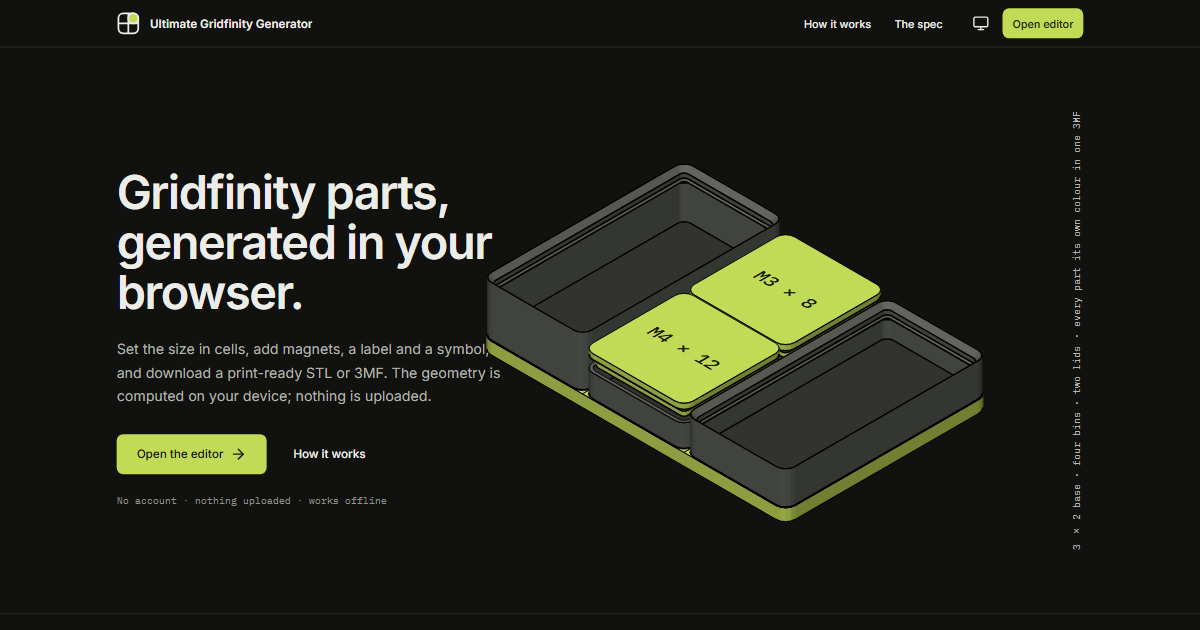
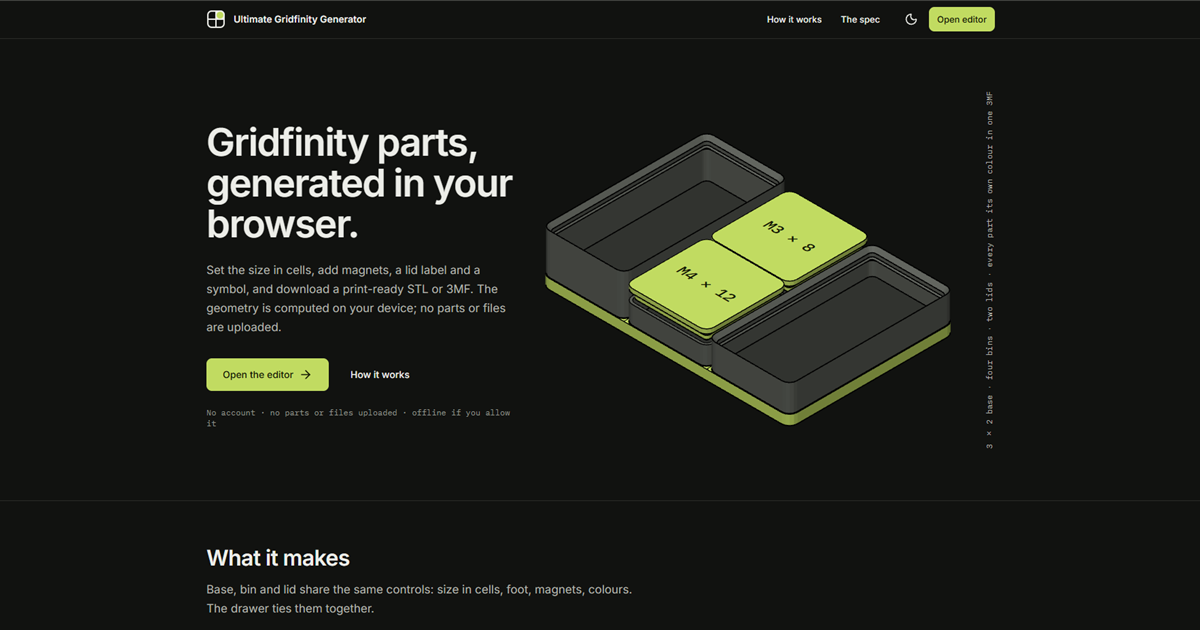
Update the preview image and the roadmap: sitemap submitted, drawer planner moved to another app

diff --git a/docs/roadmap.md b/docs/roadmap.md
@@ -31,10 +31,10 @@ Postponed (spec section 2): the desktop app with Tauri or Electron, to phase F. 
 Done on 8 November 2026: the web app is deployed at ultimategridfinity.app and verified in Google Search Console (HTML tag); landing page with hero animation, privacy statement and imprint in German and English as static pages, consent dialog for saving in the browser, no cookies, no server logs (nginx `access_log off;` and `error_log /dev/null crit;` in Coolify, no access log in the proxy; the container logs were checked and stayed empty after visits and a 404), Ko-fi link removed. Details are in the two sections "SEO" and "Privacy statement and imprint" below.
 
 Next, in this order (owner decides; Phase E only when the owner says so):
-1. **For the owner:** submit `https://ultimategridfinity.app/sitemap.xml` in Google Search Console and Bing Webmaster Tools; look at the link preview in Discord or Slack; ask the Kanzlei for an English version and whether the changed privacy statement (2.1, sections 3 and 5) is in order.
-2. **Small tasks:** a new `og-image.png` (it still shows the old wording); the phone layout with group tabs and a check on a real device, then close issue 7; the About modal (the owner decides what it holds).
+1. **For the owner:** ask the Kanzlei for an English version and whether the changed privacy statement (2.1, sections 3 and 5) is in order (still open). Done on 11 November 2026: the sitemap is submitted in Google Search Console and Bing Webmaster Tools; the new `og-image.png` is in `public/`.
+2. **Small tasks:** the phone layout with group tabs and a check on a real device, then close issue 7; the About modal (the owner decides what it holds).
 3. **Phase C:** the sliding lid, the only part not built.
-4. **Phase E**, in the recommended order: E-10 custom print bed, E-06 colour by height, E-07 to E-09 bin compartments, scoop and label tab (dimensions missing), E-04 and E-11 snap connectors (stud height and hole depth missing), E-01 to E-03 drawer planner (design first), E-05 text on bin walls.
+4. **Phase E**, in the recommended order: E-06 colour by height, E-04 and E-11 snap connectors (stud height and hole depth missing), E-05 text on bin walls. Built: E-07 to E-09 and E-10. The drawer planner (E-01 to E-03) is not part of this app any more: it goes into another app (owner, 11 November 2026).
 5. **Far future:** phases D, F, G and H.
 
 ### Preview of the print bed and start part (owner, 11 November 2026)
@@ -59,7 +59,7 @@ Next, in this order (owner decides; Phase E only when the owner says so):
 - My 2D checks (plates touching or 0 to 6 mm apart, connector upright or turned, slot at the bottom or at the top, any height): with the slot of the STEP file alone the connector never sits without overlapping plate material; as a cap on the ridge it stops at 3.5 mm above the underside. Flipping both the slot and the connector (roof down into a groove at the top) fills about 70 % of the groove with 0.02 mm2 overlap, but the owner rejected the flipped groove.
 - Open questions to ask the owner before the next try: where exactly the plate material is cut (a section of ONE plate with the final cuts), how the connector gets in (from below through the slot, from above, from the side), and the clearance in width.
 
-**Other open items:** Orca applies the plates of a 3MF only with project settings (the user arranges in Orca); slot length 20.0 (STEP) against 19.6 (owner's words); the label assumptions (lug thickness = plate, chamfer 0.3, lug offset 4.33 measured, text sink 0.4, raised by default); the owner-side items listed below (Search Console, og-image, Kanzlei).
+**Other open items:** Orca applies the plates of a 3MF only with project settings (the user arranges in Orca); slot length 20.0 (STEP) against 19.6 (owner's words); the label assumptions (lug thickness = plate, chamfer 0.3, lug offset 4.33 measured, text sink 0.4, raised by default); the owner-side items listed below (Kanzlei; Search Console, Bing and og-image are done).
 
 **Method notes:** STEP and PDF were parsed with small Python scripts in the scratchpad (`step_parse.py`: entities, reachable vertices, face loops; the PDF content stream is one Flate stream with `m`/`l` lines in layers `oc1` to `oc3`, the cyan layer is the connector); `rhino3dm` was installed with `pip --target` into the scratchpad only (not a dependency of the project). The Bambu and Orca 3MF files were unpacked and compared the same way; `project_settings.config` of the two slicers differ in 302 and 158 keys.
 
@@ -148,9 +148,7 @@ Bins and baseplates in the standard, sliding lid, filler for free space. Bin sco
 
 Planned features. **Do not start them before the owner has deployed and published the app and says so.** One feature at a time, as in phase C; the owner tests each one. Open points are in "Open decisions" 10 to 15; values that depend on test prints (E-04) are the owner's, do not invent them.
 
-- [ ] **E-01 Drawer planner: layout model.** For a baseplate (with the drawer size and height from C-09 to C-13) the user plans which bins and lids sit on which cells: placement on the cell grid, size per bin in cells, no overlaps, height limited by the drawer height. The plan is part of the model file (schema version bump and migration, ADR-0003). Depends on: C-13. *AC:* a plan with bins and lids on a 4x3 baseplate saves, loads and rejects overlaps and parts that do not fit.
-- [ ] **E-02 Drawer planner: interface.** Plan view of the plate with the parts on it, add, move and remove a bin or lid, each part uses the parameters of the existing bin and lid panels, list of the planned parts. Design first (`docs/design/ui-spec.md`, mockups by Claude Design). Depends on: E-01. *AC:* the owner can plan a whole drawer without leaving the planner; minimum values and limits as everywhere (spec rule).
-- [ ] **E-03 Drawer planner: export.** One 3MF with all planned parts (each part keeps its colours and separate meshes, ADR-0008) or all STLs in one ZIP, one file per part. Depends on: E-01. *AC:* the 3MF opens in a slicer with every part present; the ZIP holds one STL per part and a readable file name per part. How the parts are arranged in the 3MF (as planned in the drawer or laid out on the bed) is open decision 10.
+- ~~E-01 to E-03 Drawer planner (layout model, interface, export)~~ struck on 11 November 2026: the owner builds the drawer planner in another app, not in this one. The drawer fit of this app (C-09 to C-13) stays.
 - [ ] **E-04 Snap connectors for filled plates.** Lego-style press studs (round nipples) and sockets in the filled (solid) segments of baseplates that are filled or split (C-10, C-12), so the pieces click together. Tested by the owner (4 November 2026): studs of 3, 5 and 8 mm diameter with a 0.5 mm fillet on top; the matching holes are 3.1, 5.1 and 8.1 mm with a 0.6 mm fillet (hole diameter = stud diameter + 0.1 mm). Stud height and hole depth are not decided yet, and the user can set the clearance afterwards (custom). Depends on: C-12. *AC:* two pieces of a split plate join and hold; the size is a choice of 3, 5 or 8 mm; the clearance parameter changes the fit; height, depth and the limits of the clearance come from the owner.
 - [ ] **E-11 Snap studs instead of magnets.** For users without magnets: a stud on the base and a matching hole in the floor of the bin, with the sizes of E-04, in place of the magnet pockets. Depends on: E-04, C-05. *AC:* a bin clicks onto the base; the user chooses between magnets and studs. Position of the studs is decision 12. Owner's idea, 4 November 2026.
 - [ ] **E-05 Text on bin walls.** Text stamped (engraved) into the walls of a bin, with the built-in fonts or an uploaded font file, like the lid label (B-07). Depends on: C-05, B-07. *AC:* closed mesh; the engraving depth always leaves material in the wall (wall 1.2 to 2.5, engraving only up to a value below the wall); text size minimum as for the lid label. Which walls, position, depth default and orientation are open decision 11.
@@ -166,7 +164,7 @@ Planned features. **Do not start them before the owner has deployed and publishe
 - [x] **Prerendered landing page** (option C): the build renders the landing page with Svelte's server renderer into `index.html` (`prerenderLanding` in `vite.config.ts`, no new dependency); the animations and drawings are left out of it and appear in the browser. *AC:* the raw HTML holds the headings and texts (checked in `dist/index.html`).
 - [x] **nginx configuration** (MIME type of the manifest, cache headers, compression, HSTS) is the owner's, kept in Coolify and not in this repository (6 November 2026). Coolify copies it to `/etc/nginx/conf.d/default.conf`, inside nginx's `http` block, so it may hold only `server { ... }`: a `worker_processes`, `events` or `http` block makes nginx fail at start and the site answers 502.
 - [x] **Done by the owner:** the "www redirect" in Coolify (6 November 2026); the property is verified in Google Search Console (8 November 2026, HTML tag).
-- [ ] **For the owner, not code:** submit the sitemap in Google Search Console, and verify the site and submit the sitemap in Bing Webmaster Tools; look at the link preview in Discord or Slack. Not done by choice: JSON-LD, separate pages per part (they need clean paths, option B), hreflang.
+- [x] **Done by the owner (11 November 2026):** the sitemap is submitted in Google Search Console, and the site is verified and the sitemap submitted in Bing Webmaster Tools; the new `og-image.png` (1200 x 630, a screenshot of the current landing page) is in `public/`. Not done by choice: JSON-LD, separate pages per part (they need clean paths, option B), hreflang.
 
 ## Privacy statement and imprint (owner, 8 November 2026)
 
@@ -175,7 +173,7 @@ Planned features. **Do not start them before the owner has deployed and publishe
 - [x] **Wording**: "no parts or files are uploaded", offline on request, "source available"; Support button and Ko-fi link removed.
 - [x] **Privacy statement completed (8 November 2026):** no cookies; local storage and cache only after "Allow" in the dialog (only the decision itself is stored before); no server logs; Google Search Console named (Google Ireland Limited, no code on the site, no data about visitors); sections renumbered 1 to 8, German and English (`datenschutz.html`, `privacy.html`). The theme choice is kept in the browser only after "Allow" as well (`ugg.theme`), so the statement is true.
 - [x] **No server logs, checked (8 November 2026):** `access_log off;` and `error_log /dev/null crit;` in the nginx configuration in Coolify (General tab of the application), no access log in the proxy; `docker logs` of the site container, `coolify-proxy` and `coolify-proxy-error-pages` stayed empty after visits and a request for a missing page. **Keep it that way:** if logging is turned on, or a cookie, analytics or a request to a third party is added, the privacy statement is wrong and must change first.
-- [ ] **For the owner, not code:** ask the Kanzlei for an English version and whether the changed contact data in the privacy statement is fine; take a new `og-image.png` (it still shows the old wording).
+- [ ] **For the owner, not code:** ask the Kanzlei for an English version and whether the changed contact data in the privacy statement is fine (the answer is still to come, 11 November 2026).
 - [x] **Search Console tag** in the `<head>` of `index.html` (8 November 2026, the owner asked for it); it stays there, removing it loses the verification.
 
 ## After the deploy: the About modal (owner, 6 November 2026)
@@ -199,7 +197,7 @@ No tasks yet, and nothing here is started before phases C and E are done and the
 7. ~~The project's own licence~~ Decided (2 November 2026): CC BY-NC-SA 4.0. Open: whether it covers the files the app outputs, contributions by others, and when a `LICENSE` file is added (ask the owner first). See `skills/licences-and-credits/SKILL.md`.
 8. ~~Which spec is the yardstick~~ Decided: the reference drawings in `reference/gridfinity-reference-drawings/` and the official documentation.
 9. ~~Prompt for the web app~~ Written (2 November 2026); code released for Phase B.
-10. **Drawer planner export (E-03).** Is the 3MF the drawer as planned (all parts in place) or the parts laid out on the bed for printing? Does the plan include the baseplate? Owner decides.
+10. ~~Drawer planner export (E-03).~~ Void: the drawer planner goes into another app (11 November 2026).
 11. **Text on bin walls (E-05).** Which walls (all four, front only, per wall), position and orientation, engraving depth default and limit, shared text settings with the lid label. Owner decides.
 12. **Snap connector values (E-04, E-11).** Tested (4 November 2026): stud 3, 5 and 8 mm with a 0.5 mm top fillet, hole 3.1, 5.1 and 8.1 mm with a 0.6 mm fillet. Open: stud height, hole depth, default and limits of the clearance, how many studs per segment and where, and where the studs sit on the base and in the bin floor (E-11). Owner decides; no value is invented.
 13. **Colour by height (E-06).** Decided (4 November 2026): the base is the user's part colour; bands are stacked from the bottom over the whole height, each with its own height, the top band takes the rest; a band without a colour (also the top one) keeps the part colour; the lip has the part colour unless a band colours it; a "Lip only" switch sets a band to the lip height; the separate lip colour option goes away. Open: how many bands at most, whether band edges snap to the layer height of the printer, and whether bands apply to every part of a model or per part (plate, text). STL has no colours and stays one file. Owner decides.
